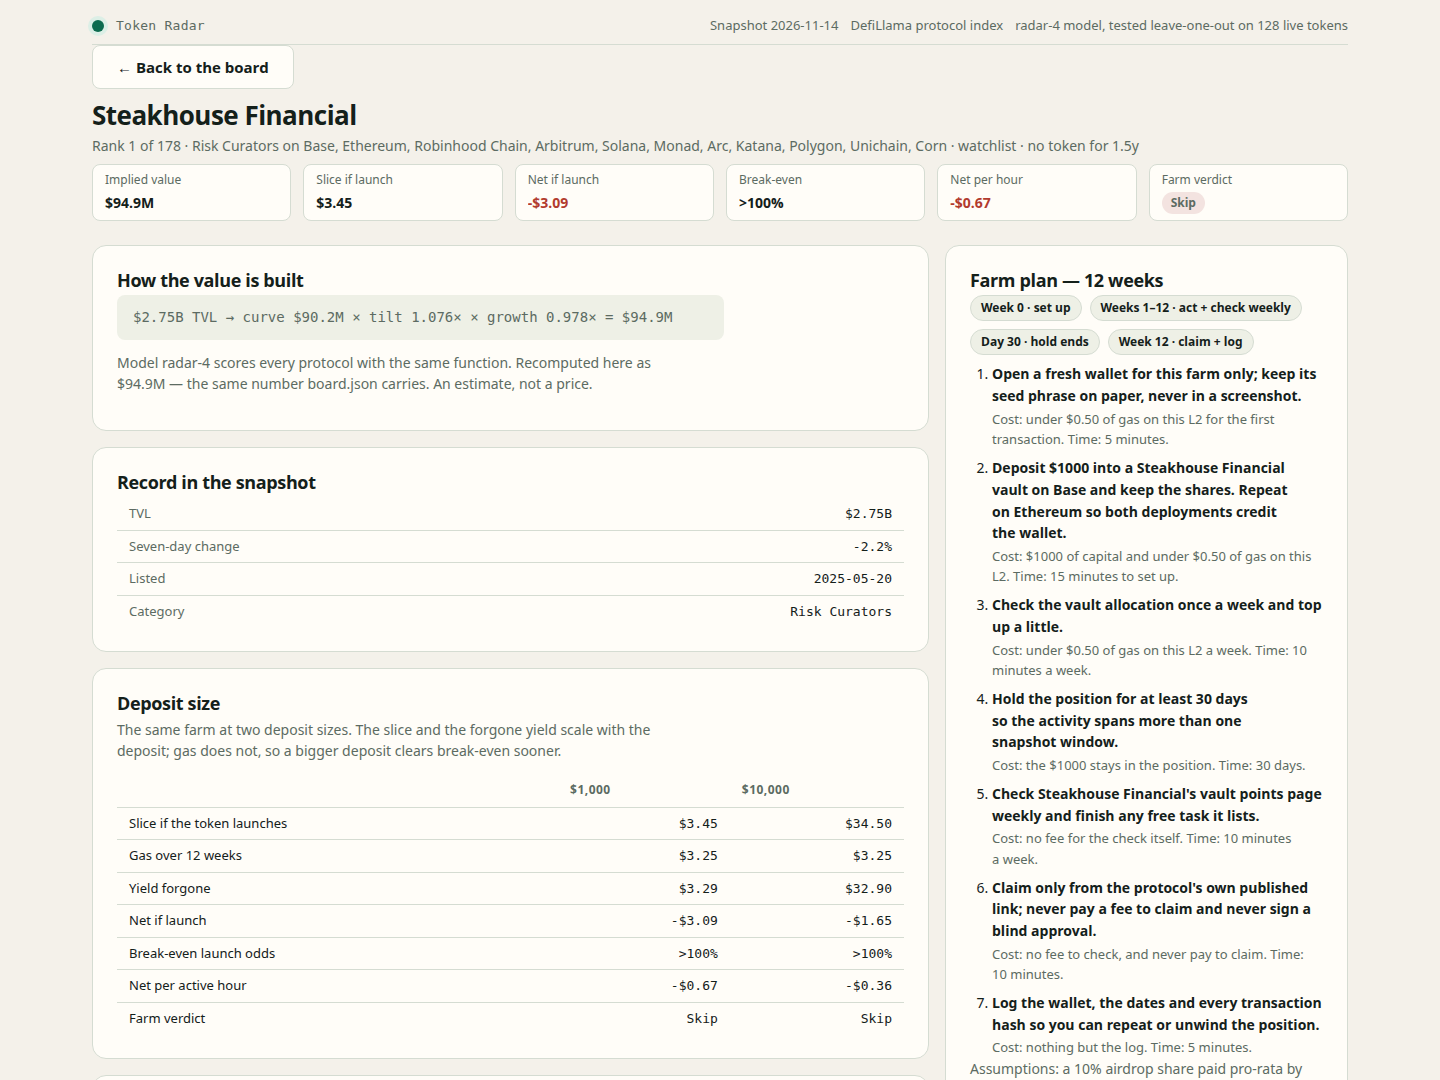
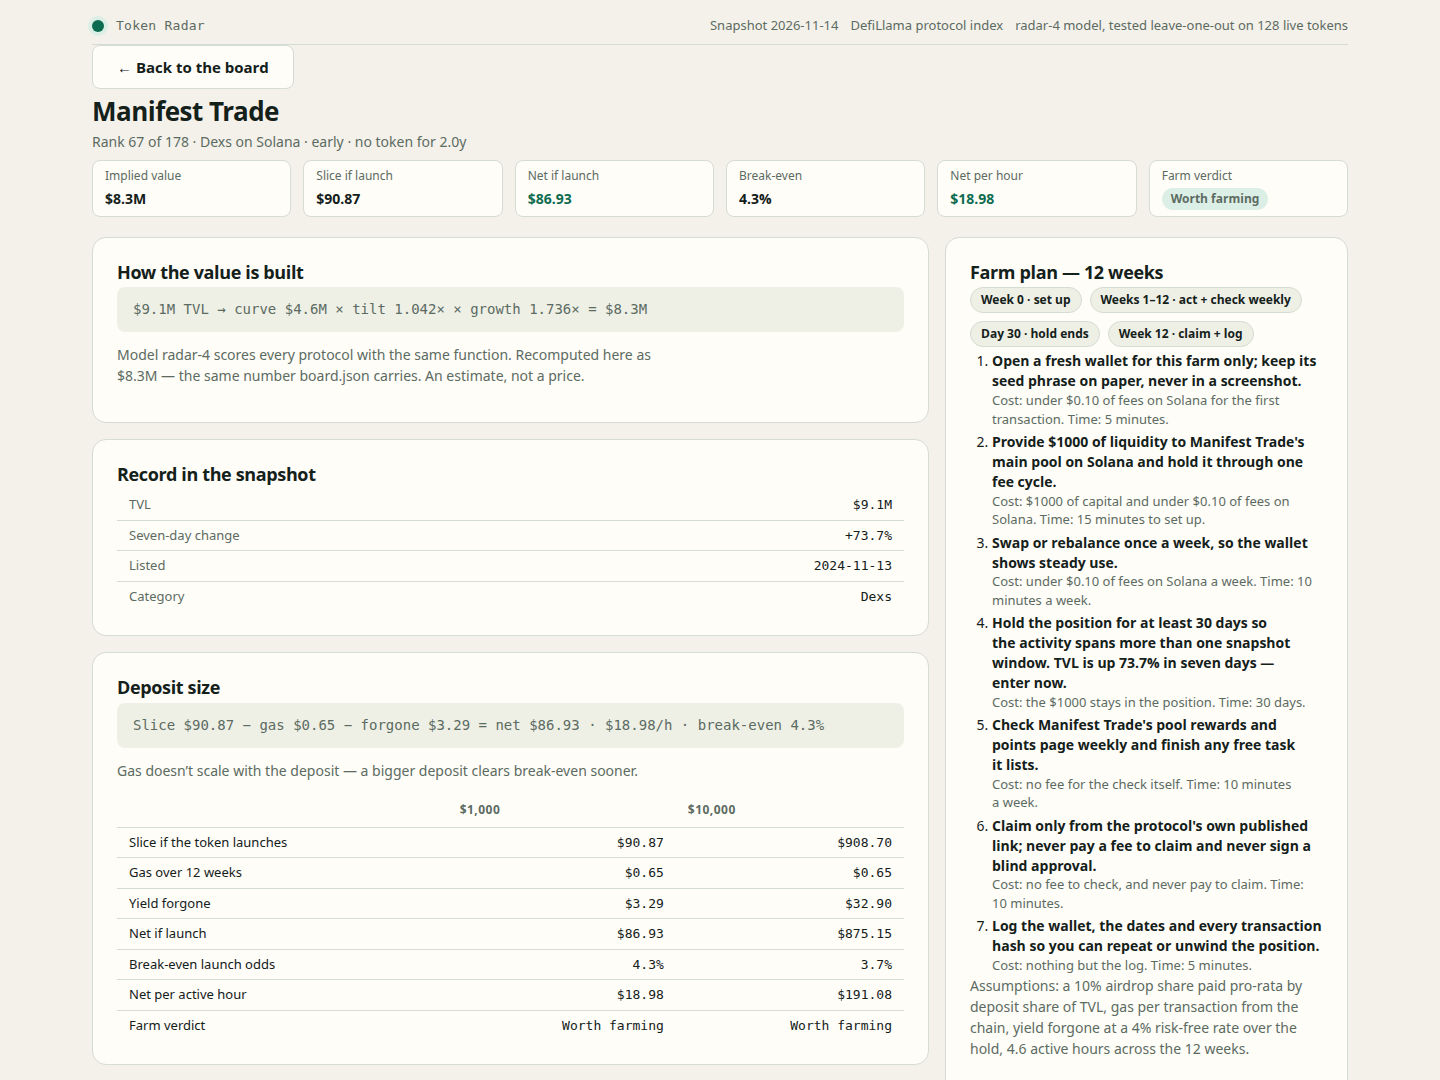
v5.1: method shot scrolled to validation+ablation; detail hero Manifest Trade; 1-line net economics equation; detail CSS tightening so farm-plan Assumptions fits one viewport

diff --git a/dashboard/app.css b/dashboard/app.css
@@ -106,18 +106,19 @@ a { color: var(--accent); }
 .farmbook p { color: var(--muted); margin-bottom: var(--step-3); max-width: 110ch; font-size: 14px; }
 .farmbook .farmbook-net { margin: var(--step-3) 0 0; color: var(--ink); font-weight: 600; }
 /* Detail page: a full page, not a popup. */
-.detail-lede { padding-top: var(--step-3); }
-.detail-grid { display: grid; grid-template-columns: minmax(0, 1.35fr) minmax(0, 0.65fr); gap: var(--step-4); margin-top: var(--step-4); }
+.detail-lede { padding-top: 8px; }
+.detail-grid { display: grid; grid-template-columns: minmax(0, 1.35fr) minmax(0, 0.65fr); gap: var(--step-4); margin-top: 12px; }
 .detail-col { display: grid; gap: var(--step-4); align-content: start; }
-.detail-sec { padding: var(--step-4) var(--step-5); }
+.detail-sec { padding: 12px var(--step-5); }
 .detail-sec h2 { margin-bottom: var(--step-1); }
 .detail-sec p { color: var(--muted); margin-bottom: var(--step-3); max-width: 72ch; font-size: 14px; }
 .detail-sec table { font-size: 13px; }
-.detail-sec tbody td { padding: 6px var(--step-3); }
+.detail-sec tbody td { padding: 5px var(--step-3); }
 .detail-sec tbody tr { cursor: default; }
 .detail-sec tbody tr:hover { background: transparent; }
 .detail-sec .kv td:first-child { color: var(--muted); width: 40%; }
-.timeline { display: flex; flex-wrap: wrap; gap: var(--step-2); margin-bottom: var(--step-2); }
+.detail-sec .net-equation { max-width: none; }
+.timeline { display: flex; flex-wrap: wrap; gap: var(--step-2); margin-bottom: 4px; }
 .timeline span { background: var(--surface-2); border: 1px solid var(--border); border-radius: 999px; padding: 3px 10px; font-size: 12px; font-weight: 650; }
 .signals.flat { padding: 0; }
 
@@ -253,9 +254,9 @@ td.num, th.num { text-align: right; }
 .equation div { display: flex; justify-content: space-between; gap: var(--step-3); padding: var(--step-3); background: var(--surface-2); border-radius: var(--radius-control); }
 .equation span { color: var(--muted); font-size: 13px; }
 .equation b { font-weight: 650; }
-.steps { margin: 0; padding-left: 22px; display: grid; gap: 8px; }
-.steps li { line-height: 1.55; font-size: 14px; }
-.steps .cost { display: block; color: var(--muted); font-size: 13px; margin-top: 2px; }
+.steps { margin: 0; padding-left: 22px; display: grid; gap: 4px; }
+.steps li { line-height: 1.42; font-size: 14px; }
+.steps .cost { display: block; color: var(--muted); font-size: 13px; margin-top: 0; }
 .note { padding: var(--step-4) var(--step-5); color: var(--muted); font-size: 13px; }
 
 @media (max-width: 900px) {

diff --git a/dashboard/app.js b/dashboard/app.js
@@ -652,7 +652,8 @@
           ),
           el('section', { class: 'panel chart detail-sec' },
             el('h2', { text: 'Deposit size' }),
-            el('p', { text: 'The same farm at two deposit sizes. The slice and the forgone yield scale with the deposit; gas does not, so a bigger deposit clears break-even sooner.' }),
+            el('p', { class: 'net-equation', text: 'Slice ' + fmtMoney2(e1.slice) + ' − gas ' + fmtMoney2(e1.fees) + ' − forgone ' + fmtMoney2(e1.forgone) + ' = net ' + fmtMoney2(e1.net) + ' · ' + fmtMoney2(e1.netHour) + '/h · break-even ' + fmtBe(e1.be) }),
+            el('p', { text: 'Gas doesn\u2019t scale with the deposit — a bigger deposit clears break-even sooner.' }),
             el('div', { class: 'table-wrap' },
               el('table', null,
                 el('thead', null, el('tr', null, el('th', { scope: 'col', text: '' }), el('th', { scope: 'col', text: '$1,000' }), el('th', { scope: 'col', text: '$10,000' }))),
